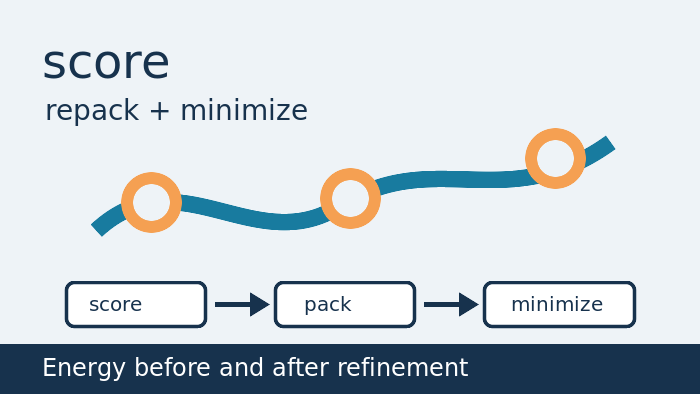
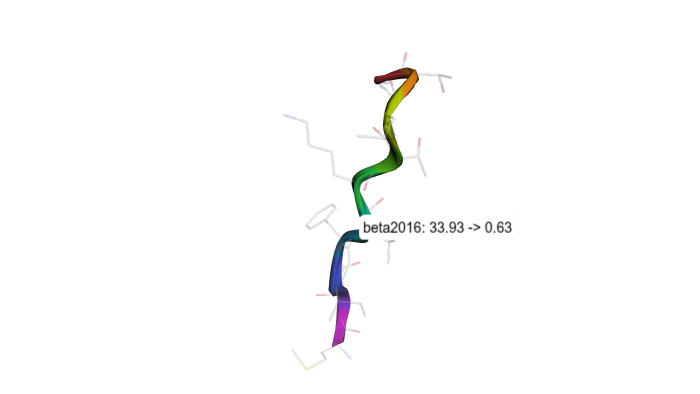
Simplify docs examples gallery

Changed region(s): [[0.0, 0.1523, 1.0, 1.0], [0.06, 0.2437, 0.45, 0.3046], [0.06, 0.1218, 0.24, 0.2132]]

diff --git a/docs/_static/custom.css b/docs/_static/custom.css
@@ -10,14 +10,14 @@ table.docutils {
   width: 100%;
 }
 
-.tutorial-card-grid {
+.example-card-grid {
   display: grid;
   gap: 1rem;
   grid-template-columns: repeat(auto-fit, minmax(240px, 1fr));
   margin: 1.25rem 0 2rem;
 }
 
-.tutorial-card {
+.example-card {
   border: 1px solid var(--pst-color-border);
   border-radius: 8px;
   color: var(--pst-color-text-base);
@@ -26,34 +26,28 @@ table.docutils {
   text-decoration: none;
 }
 
-.tutorial-card:hover {
+.example-card:hover {
   border-color: var(--pst-color-primary);
   text-decoration: none;
 }
 
-.tutorial-card img {
+.example-card img {
   aspect-ratio: 16 / 9;
   display: block;
   object-fit: cover;
   width: 100%;
 }
 
-.tutorial-card-title,
-.tutorial-card-summary {
+.example-card-title {
   display: block;
   padding: 0 1rem;
 }
 
-.tutorial-card-title {
+.example-card-title {
   font-size: 1rem;
   font-weight: 600;
-  padding-top: 0.9rem;
-}
-
-.tutorial-card-summary {
-  color: var(--pst-color-text-muted);
-  font-size: 0.9rem;
-  line-height: 1.4;
+  line-height: 1.35;
+  min-height: 4.3rem;
   padding-bottom: 1rem;
-  padding-top: 0.35rem;
+  padding-top: 0.9rem;
 }

diff --git a/docs/conf.py b/docs/conf.py
@@ -82,8 +82,10 @@ exclude_patterns = [
     "Thumbs.db",
     ".DS_Store",
     "README.md",
+    "notebooks/tmol_how_to_guide.ipynb",
     "examples/GALLERY_HEADER.rst",
     "sg_execution_times.rst",
+    "auto_examples",
     "auto_examples/*.codeobj.json",
     "auto_examples/*.ipynb",
     "auto_examples/*.py",

diff --git a/docs/examples_index.rst b/docs/examples_index.rst
@@ -1,13 +1,25 @@
 Examples
 ========
 
-Guided tutorials and runnable examples show complete tmol workflows with
-rendered outputs, including interactive structure viewers where the page
-produces coordinates.
+These guided examples show complete tmol workflows with saved notebook outputs,
+including interactive structure viewers where the page produces coordinates.
+
+.. raw:: html
+
+   <div class="example-card-grid">
+     <a class="example-card" href="tutorial/visualisation.html">
+       <img src="_static/tutorials/visualisation.png" alt="Rendered protein structure thumbnail">
+       <span class="example-card-title">Score and visualize a PoseStack</span>
+     </a>
+     <a class="example-card" href="tutorial/score_pack_minimize.html">
+       <img src="_static/tutorials/score_pack_minimize.png" alt="Rendered refined protein structure thumbnail">
+       <span class="example-card-title">Score, Repack, and Minimize a Pose</span>
+     </a>
+   </div>
 
 .. toctree::
-   :maxdepth: 2
+   :maxdepth: 1
+   :hidden:
 
-   tutorial/index
-   auto_examples/index
-   notebooks/tmol_how_to_guide
+   tutorial/visualisation
+   tutorial/score_pack_minimize
